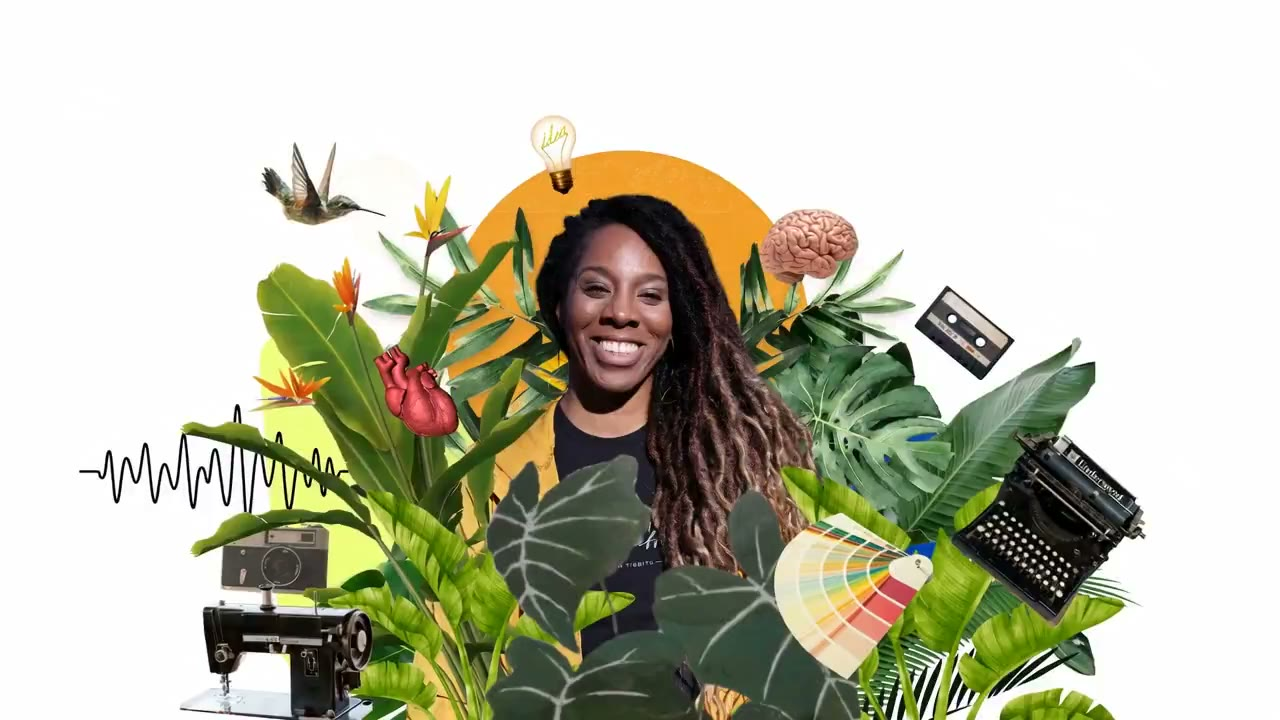
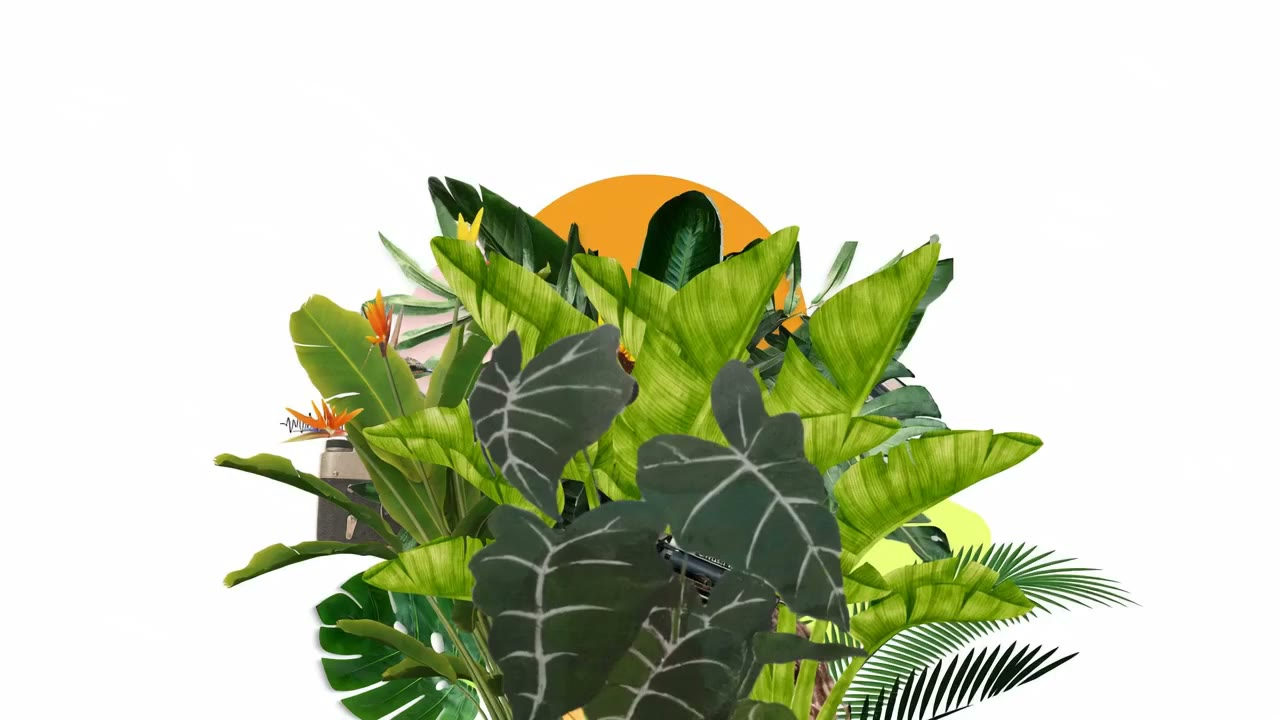
Pull the collage up under the wordmark; fix the poster frame
Two things were putting air between the tagline and the animation:

- .hero-logo was a full 100vh with its content centred, leaving ~32vh of dead
  cream below the tagline. Now 56vh (--hero-logo-height), which brings the
  hero zone up 371px at an 844px viewport.
- The collage occupies the lower two thirds of the clip's own frame, so even
  once the zone moved up, the empty band at the top of the video read as more
  gap. Lifted with translateY(--hero-video-shift, -9%); the pin clips it.

Also: the poster was generated from the *last* frame, so the page painted the
fully revealed collage on load and then snapped shut on first scroll.
Regenerated from frame 0 so the initial paint matches the scroll-0 state.

diff --git a/app/globals.css b/app/globals.css
@@ -40,13 +40,19 @@ body {
    HERO 1 — Logo + tagline (static)
    ============================================ */
 
+/* Was a full 100vh, which left roughly 32vh of dead cream between the tagline
+   and the top of the collage. Shortened so the animation starts close under
+   the wordmark; --hero-logo-height is the dial. */
 .hero-logo {
+  --hero-logo-height: 56vh;
+
   position: relative;
-  height: 100vh;
+  min-height: var(--hero-logo-height);
   width: 100%;
   display: flex;
   align-items: center;
   justify-content: center;
+  padding: 3rem 1.5rem 0;
   background: var(--off-white);
   overflow: hidden;
   scroll-snap-align: start;
@@ -171,6 +177,12 @@ body {
   pointer-events: none;
   z-index: 1;
   mix-blend-mode: multiply;
+
+  /* The collage sits in the lower two thirds of its own frame, so the clip
+     carries a band of empty white above it. Left centred, that band reads as a
+     gap under the wordmark. Lift it so the foliage starts right below the
+     tagline; the pin clips the overflow. */
+  transform: translateY(var(--hero-video-shift, -9%));
 }
 
 /* The overlays are driven from JS (see HeroVideo), so they start hidden and
